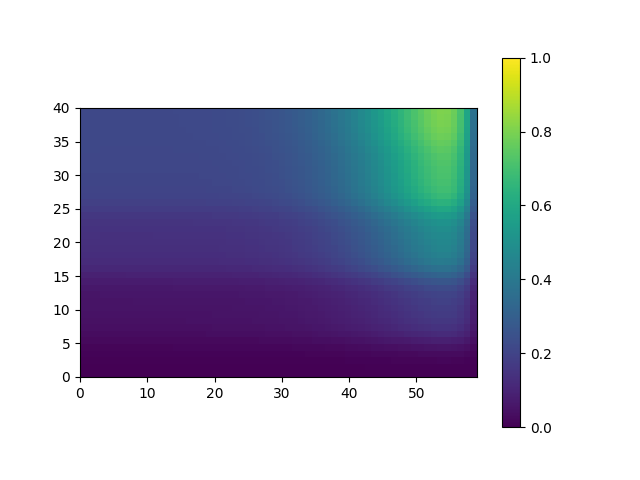
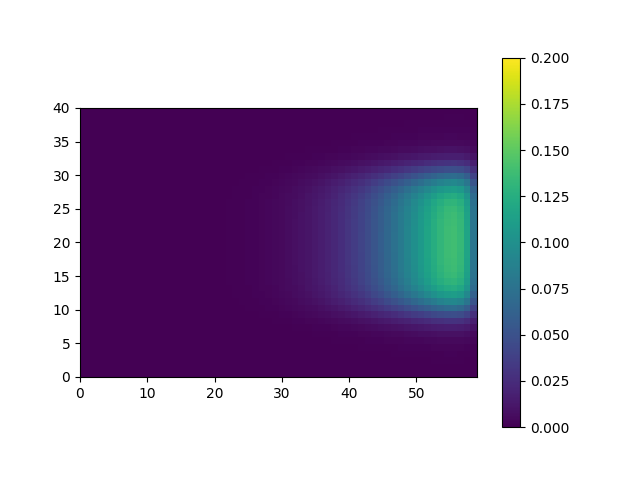
atualizado

diff --git a/aps2.py b/aps2.py
@@ -29,7 +29,7 @@ for l in tempo:
             else:
                 qc = 0
 
-            v = alpha*math.sin((math.pi / 5) * j)
+            v = alpha*math.sin((math.pi / 5) * j * delta_y)
             
             termo1direita = C[j][i]
             termo2 = u*(C[j][i+1] - C[j][i-1]) / (2*delta_x)
@@ -41,14 +41,7 @@ for l in tempo:
             if C_[j][i] < 0:
                 C_[j][i] = 0
 
-            if j == 0:
-                C_[0][i] = C_[1][i]
-            elif j == 40:
-                C_[40][i] = C_[39][i]
-            elif i == 0:
-                C_[j][0] = C_[j][1]
-            elif i == 60:
-                C_[j][60] = C_[j][59]
+            
 
     '''#Condições de contorno
     C_[1:40][0] = C_[1:40][1]
@@ -58,10 +51,16 @@ for l in tempo:
     
             
     C = np.copy(C_)
+
+C_[0][:] = C_[1][:]
+C_[40][:] = C_[39][:]
+C_[0:60][0] = C_[0:60][1]
+C_[0:60][40] = C_[0:60][39]
+
 #print(np.shape(C))
 #extent=(0,40,0,60)
 
-plt.imshow(C, vmin = 0, vmax = 1, extent=(0,60,0,40))
+plt.imshow(C, vmin = 0, vmax = 0.2, extent=(0,60,0,40))
 plt.xlim(0,59)
 plt.ylim(0,40)
 plt.colorbar()
